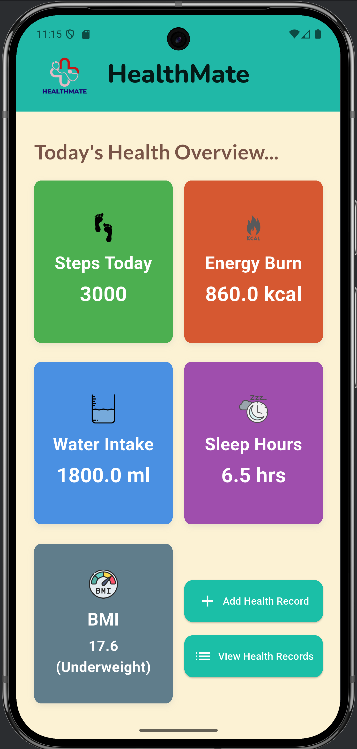
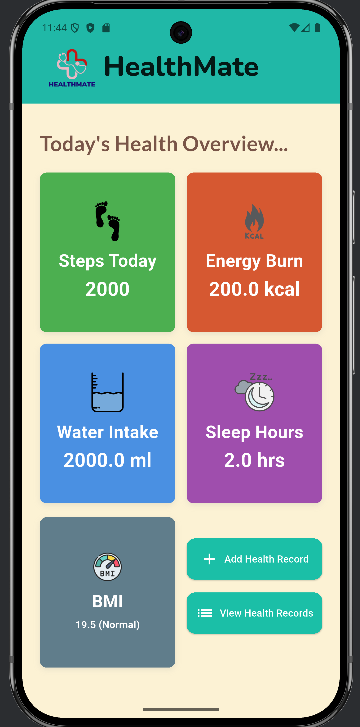
Initial commit: Added full HealthMate source code

diff --git a/lib/features/health_records/screens/dashboard.dart b/lib/features/health_records/screens/dashboard.dart
@@ -87,30 +87,44 @@ class _DashboardState extends State<Dashboard> {
         preferredSize: Size.fromHeight(80),
         child: AppBar(
           elevation: 2,
-          flexibleSpace: Stack(
-            children: [
-              Positioned(
-                left: 2,
-                top: 26,
-                child: Container(
-                  width: 130,
-                  height: 130,
-                  child: Image.asset(
-                    'assets/logo.png',
-                    fit: BoxFit.contain,
+          flexibleSpace: LayoutBuilder(
+            builder: (context, constraints) {
+              double screenWidth = MediaQuery.of(context).size.width;
+              double scale = screenWidth / 420;
+
+              return Stack(
+                children: [
+                  Positioned(
+                    left: 1 * scale,
+                    top: 20 * scale,
+                    child: SizedBox(
+                      width: 130 * scale,
+                      height: 130 * scale,
+                      child: Image.asset(
+                        'assets/logo.png',
+                        fit: BoxFit.contain,
+                      ),
+                    ),
                   ),
-                ),
-              ),
-            ],
+                ],
+              );
+            },
           ),
-          title: Text(
-            "HealthMate",
-            style: TextStyle(
-              fontFamily: 'Nunito',
-              fontSize: 35,
-              fontWeight: FontWeight.bold,
-              color: Colors.black87,
-            ),
+          title: LayoutBuilder(
+            builder: (context, constraints) {
+              double screenWidth = MediaQuery.of(context).size.width;
+              double scale = screenWidth / 400;
+
+              return Text(
+                "HealthMate",
+                style: TextStyle(
+                  fontFamily: 'Nunito',
+                  fontSize: 35 * scale,
+                  fontWeight: FontWeight.bold,
+                  color: Colors.black87,
+                ),
+              );
+            },
           ),
           centerTitle: true,
         ),
@@ -201,7 +215,7 @@ class _DashboardState extends State<Dashboard> {
                                       ? "Tap to calculate"
                                       : "${healthData.bmi} (${healthData.bmiStatus})",
                                   style: TextStyle(
-                                    fontSize: 28,
+                                    fontSize: 50,
                                     fontWeight: FontWeight.bold,
                                     color: Colors.white,
                                   ),
